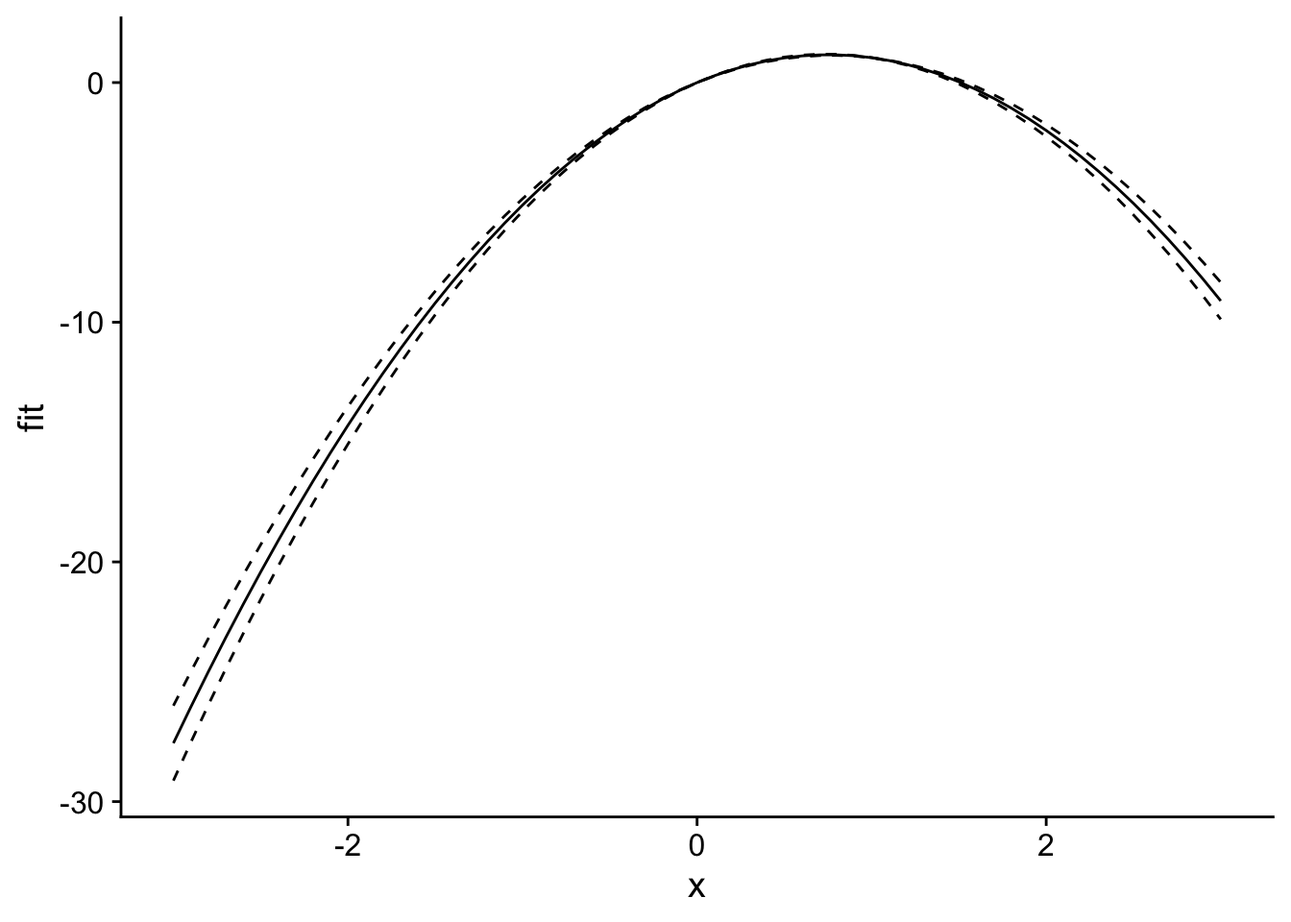
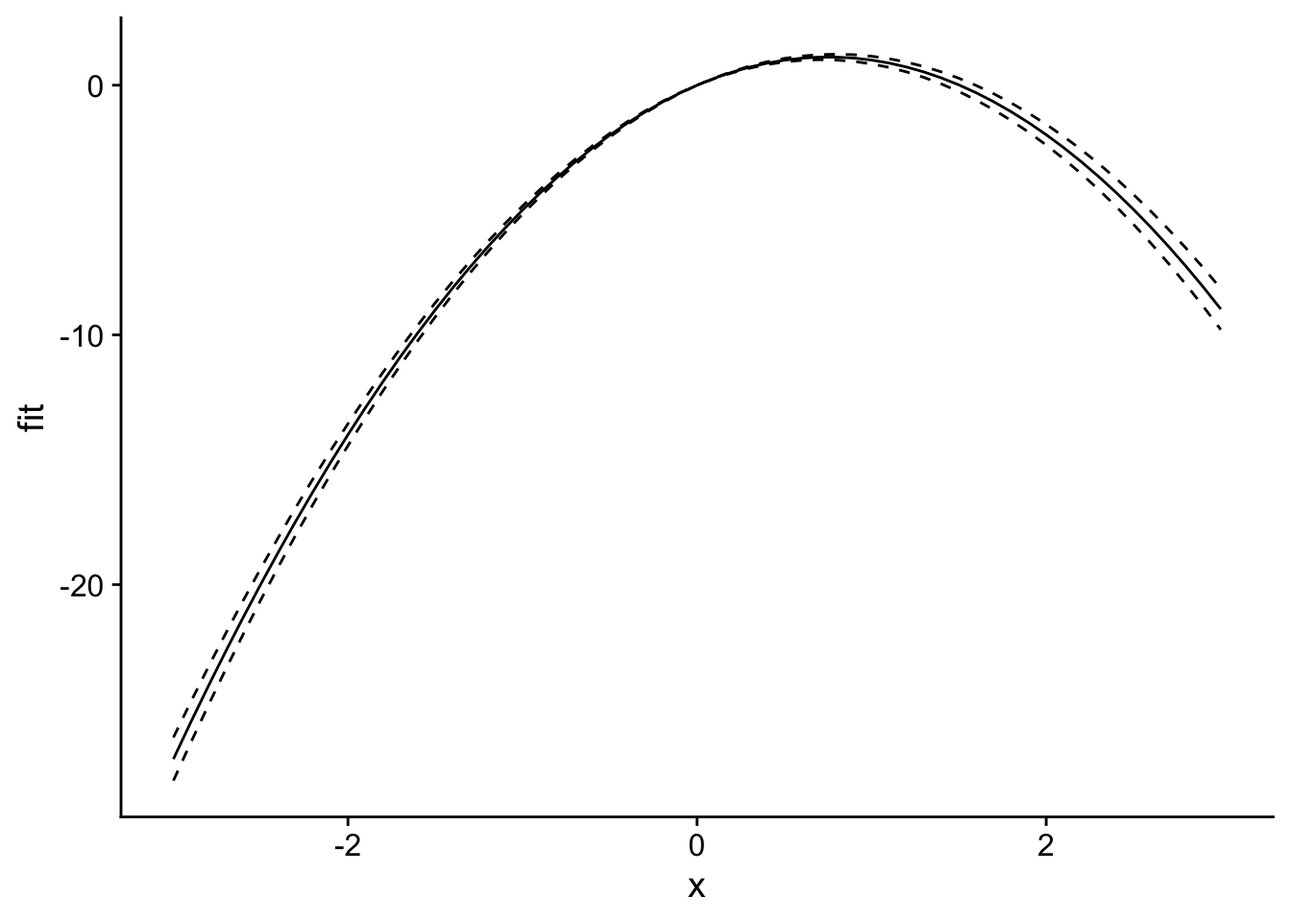
Get predict partial working again

diff --git a/_site/posts/2021-01-22-predict-partial/index.html b/_site/posts/2021-01-22-predict-partial/index.html
@@ -253,6 +253,19 @@ window.Quarto = {
 
 
 
+<div class="callout callout-style-default callout-note callout-titled">
+<div class="callout-header d-flex align-content-center">
+<div class="callout-icon-container">
+<i class="callout-icon"></i>
+</div>
+<div class="callout-title-container flex-fill">
+<span class="screen-reader-only">Note</span>2025 Update
+</div>
+</div>
+<div class="callout-body-container callout-body">
+<p>The approach detailed here has been made (mostly) obsolete by the <code>comparisons()</code> function in the <a href="https://github.com/vincentarelbundock/marginaleffects">marginaleffects</a> package. I wrote up a similar post using that package <a href="../../posts/2025-09-25-predict-update/">here</a>. That being said, the <code>predict_partial</code> function below is still useful to me when I’m trying to do something very particular, so I leave it up for posterity.</p>
+</div>
+</div>
 <p>In climate economics and in other settings, we often would like to estimate a <strong>response function</strong>, or the outcome as a function of some covariate, i.e., <span class="math inline">\(y = f(T)\)</span>. Most of the time, <span class="math inline">\(T\)</span> stands for temperature. Figure 3 in <a href="https://science.sciencemag.org/content/353/6304/aad9837">Carleton and Hsiang (2016)</a> documents a bunch of different response functions from the literature.</p>
 <div class="quarto-figure quarto-figure-center">
 <figure class="figure">
@@ -280,71 +293,69 @@ window.Quarto = {
 <span id="cb1-9"><a href="#cb1-9" aria-hidden="true" tabindex="-1"></a>        <span class="fu">stop</span>(<span class="st">"predict_partial requires newdata and predicts for all group effects = 0."</span>)</span>
 <span id="cb1-10"><a href="#cb1-10" aria-hidden="true" tabindex="-1"></a>    }</span>
 <span id="cb1-11"><a href="#cb1-11" aria-hidden="true" tabindex="-1"></a>    </span>
-<span id="cb1-12"><a href="#cb1-12" aria-hidden="true" tabindex="-1"></a>    object <span class="ot">&lt;-</span> fit_feols; newdata <span class="ot">&lt;-</span> newdata; se.fit <span class="ot">=</span> T; interval <span class="ot">=</span> <span class="st">"confidence"</span>; level <span class="ot">=</span> <span class="fl">0.95</span></span>
+<span id="cb1-12"><a href="#cb1-12" aria-hidden="true" tabindex="-1"></a>    <span class="co"># object &lt;- fit_lm; newdata &lt;- newdata; se.fit = T; interval = "confidence"; level = 0.95</span></span>
 <span id="cb1-13"><a href="#cb1-13" aria-hidden="true" tabindex="-1"></a>    </span>
 <span id="cb1-14"><a href="#cb1-14" aria-hidden="true" tabindex="-1"></a>    <span class="co"># Extract terms object, removing response variable </span></span>
 <span id="cb1-15"><a href="#cb1-15" aria-hidden="true" tabindex="-1"></a>    tt <span class="ot">&lt;-</span> <span class="fu">terms</span>(object)</span>
 <span id="cb1-16"><a href="#cb1-16" aria-hidden="true" tabindex="-1"></a>    Terms <span class="ot">&lt;-</span> <span class="fu">delete.response</span>(tt)</span>
 <span id="cb1-17"><a href="#cb1-17" aria-hidden="true" tabindex="-1"></a>    </span>
-<span id="cb1-18"><a href="#cb1-18" aria-hidden="true" tabindex="-1"></a>    <span class="co"># Remove intercept</span></span>
-<span id="cb1-19"><a href="#cb1-19" aria-hidden="true" tabindex="-1"></a>    <span class="fu">attr</span>(Terms, <span class="st">"intercept"</span>) <span class="ot">&lt;-</span> <span class="dv">0</span></span>
-<span id="cb1-20"><a href="#cb1-20" aria-hidden="true" tabindex="-1"></a>    </span>
-<span id="cb1-21"><a href="#cb1-21" aria-hidden="true" tabindex="-1"></a>    X <span class="ot">&lt;-</span> <span class="fu">model.matrix</span>(Terms, <span class="at">data =</span> newdata)</span>
-<span id="cb1-22"><a href="#cb1-22" aria-hidden="true" tabindex="-1"></a>    </span>
-<span id="cb1-23"><a href="#cb1-23" aria-hidden="true" tabindex="-1"></a>    <span class="cf">if</span> (<span class="fu">class</span>(object) <span class="sc">==</span> <span class="st">"fixest"</span>) {</span>
-<span id="cb1-24"><a href="#cb1-24" aria-hidden="true" tabindex="-1"></a>        B <span class="ot">&lt;-</span> <span class="fu">as.numeric</span>(<span class="fu">coef</span>(object))</span>
-<span id="cb1-25"><a href="#cb1-25" aria-hidden="true" tabindex="-1"></a>        df <span class="ot">&lt;-</span> <span class="fu">attributes</span>(<span class="fu">vcov</span>(fit_feols, <span class="at">attr =</span> T))<span class="sc">$</span>dof.K</span>
-<span id="cb1-26"><a href="#cb1-26" aria-hidden="true" tabindex="-1"></a>    } <span class="cf">else</span> <span class="cf">if</span> (<span class="fu">class</span>(object) <span class="sc">%in%</span> <span class="fu">c</span>(<span class="st">"lm"</span>, <span class="st">"felm"</span>)) { </span>
-<span id="cb1-27"><a href="#cb1-27" aria-hidden="true" tabindex="-1"></a>        B <span class="ot">&lt;-</span> <span class="fu">as.numeric</span>(object<span class="sc">$</span>coef)</span>
-<span id="cb1-28"><a href="#cb1-28" aria-hidden="true" tabindex="-1"></a>        df <span class="ot">&lt;-</span> object<span class="sc">$</span>df.residual</span>
-<span id="cb1-29"><a href="#cb1-29" aria-hidden="true" tabindex="-1"></a>    } <span class="cf">else</span> {</span>
-<span id="cb1-30"><a href="#cb1-30" aria-hidden="true" tabindex="-1"></a>        <span class="fu">stop</span>(<span class="st">"class(object) should be lm, fixest, or felm."</span>)</span>
-<span id="cb1-31"><a href="#cb1-31" aria-hidden="true" tabindex="-1"></a>    }</span>
+<span id="cb1-18"><a href="#cb1-18" aria-hidden="true" tabindex="-1"></a>    <span class="cf">if</span> (<span class="fu">class</span>(object) <span class="sc">==</span> <span class="st">"fixest"</span>) {</span>
+<span id="cb1-19"><a href="#cb1-19" aria-hidden="true" tabindex="-1"></a>        <span class="fu">attr</span>(Terms, <span class="st">"intercept"</span>) <span class="ot">&lt;-</span> <span class="dv">0</span> <span class="co"># Remove intercept for fixest objects</span></span>
+<span id="cb1-20"><a href="#cb1-20" aria-hidden="true" tabindex="-1"></a>        B <span class="ot">&lt;-</span> <span class="fu">as.numeric</span>(<span class="fu">coef</span>(object))</span>
+<span id="cb1-21"><a href="#cb1-21" aria-hidden="true" tabindex="-1"></a>        df <span class="ot">&lt;-</span> <span class="fu">attributes</span>(<span class="fu">vcov</span>(fit_feols, <span class="at">attr =</span> T))<span class="sc">$</span>df.K</span>
+<span id="cb1-22"><a href="#cb1-22" aria-hidden="true" tabindex="-1"></a>    } <span class="cf">else</span> <span class="cf">if</span> (<span class="fu">class</span>(object) <span class="sc">%in%</span> <span class="fu">c</span>(<span class="st">"lm"</span>, <span class="st">"felm"</span>)) { </span>
+<span id="cb1-23"><a href="#cb1-23" aria-hidden="true" tabindex="-1"></a>        B <span class="ot">&lt;-</span> object<span class="sc">$</span>coef</span>
+<span id="cb1-24"><a href="#cb1-24" aria-hidden="true" tabindex="-1"></a>        df <span class="ot">&lt;-</span> object<span class="sc">$</span>df.residual</span>
+<span id="cb1-25"><a href="#cb1-25" aria-hidden="true" tabindex="-1"></a>    } <span class="cf">else</span> {</span>
+<span id="cb1-26"><a href="#cb1-26" aria-hidden="true" tabindex="-1"></a>        <span class="fu">stop</span>(<span class="st">"class(object) should be lm, fixest, or felm."</span>)</span>
+<span id="cb1-27"><a href="#cb1-27" aria-hidden="true" tabindex="-1"></a>    }</span>
+<span id="cb1-28"><a href="#cb1-28" aria-hidden="true" tabindex="-1"></a>    </span>
+<span id="cb1-29"><a href="#cb1-29" aria-hidden="true" tabindex="-1"></a>    X <span class="ot">&lt;-</span> <span class="fu">model.matrix</span>(Terms, <span class="at">data =</span> newdata)</span>
+<span id="cb1-30"><a href="#cb1-30" aria-hidden="true" tabindex="-1"></a>    </span>
+<span id="cb1-31"><a href="#cb1-31" aria-hidden="true" tabindex="-1"></a>    fit <span class="ot">&lt;-</span> <span class="fu">data.frame</span>(<span class="at">fit =</span> <span class="fu">as.vector</span>(X <span class="sc">%*%</span> B))</span>
 <span id="cb1-32"><a href="#cb1-32" aria-hidden="true" tabindex="-1"></a>    </span>
-<span id="cb1-33"><a href="#cb1-33" aria-hidden="true" tabindex="-1"></a>    fit <span class="ot">&lt;-</span> <span class="fu">data.frame</span>(<span class="at">fit =</span> <span class="fu">as.vector</span>(X <span class="sc">%*%</span> B))</span>
-<span id="cb1-34"><a href="#cb1-34" aria-hidden="true" tabindex="-1"></a>    </span>
-<span id="cb1-35"><a href="#cb1-35" aria-hidden="true" tabindex="-1"></a>    <span class="cf">if</span>(se.fit <span class="sc">|</span> interval <span class="sc">!=</span> <span class="st">"none"</span>) {</span>
-<span id="cb1-36"><a href="#cb1-36" aria-hidden="true" tabindex="-1"></a>        sig <span class="ot">&lt;-</span> <span class="fu">vcov</span>(object)</span>
-<span id="cb1-37"><a href="#cb1-37" aria-hidden="true" tabindex="-1"></a>        se <span class="ot">&lt;-</span> <span class="fu">apply</span>(X, <span class="at">MARGIN =</span> <span class="dv">1</span>, <span class="at">FUN =</span> get_se, <span class="at">sig =</span> sig)</span>
-<span id="cb1-38"><a href="#cb1-38" aria-hidden="true" tabindex="-1"></a>    }</span>
-<span id="cb1-39"><a href="#cb1-39" aria-hidden="true" tabindex="-1"></a>    </span>
-<span id="cb1-40"><a href="#cb1-40" aria-hidden="true" tabindex="-1"></a>    <span class="cf">if</span>(interval <span class="sc">==</span> <span class="st">"confidence"</span>){</span>
-<span id="cb1-41"><a href="#cb1-41" aria-hidden="true" tabindex="-1"></a>        t_val <span class="ot">&lt;-</span> <span class="fu">qt</span>((<span class="dv">1</span> <span class="sc">-</span> level) <span class="sc">/</span> <span class="dv">2</span> <span class="sc">+</span> level, <span class="at">df =</span> df)</span>
-<span id="cb1-42"><a href="#cb1-42" aria-hidden="true" tabindex="-1"></a>        fit<span class="sc">$</span>lwr <span class="ot">&lt;-</span> fit<span class="sc">$</span>fit <span class="sc">-</span> t_val <span class="sc">*</span> se</span>
-<span id="cb1-43"><a href="#cb1-43" aria-hidden="true" tabindex="-1"></a>        fit<span class="sc">$</span>upr <span class="ot">&lt;-</span> fit<span class="sc">$</span>fit <span class="sc">+</span> t_val <span class="sc">*</span> se</span>
-<span id="cb1-44"><a href="#cb1-44" aria-hidden="true" tabindex="-1"></a>    } <span class="cf">else</span> <span class="cf">if</span> (interval <span class="sc">==</span> <span class="st">"prediction"</span>){</span>
-<span id="cb1-45"><a href="#cb1-45" aria-hidden="true" tabindex="-1"></a>        <span class="fu">stop</span>(<span class="st">"interval = </span><span class="sc">\"</span><span class="st">prediction</span><span class="sc">\"</span><span class="st"> not yet implemented"</span>)</span>
-<span id="cb1-46"><a href="#cb1-46" aria-hidden="true" tabindex="-1"></a>    }</span>
-<span id="cb1-47"><a href="#cb1-47" aria-hidden="true" tabindex="-1"></a>    <span class="cf">if</span>(se.fit){</span>
-<span id="cb1-48"><a href="#cb1-48" aria-hidden="true" tabindex="-1"></a>        <span class="fu">return</span>(<span class="fu">list</span>(<span class="at">fit=</span>fit, <span class="at">se.fit =</span> se))</span>
-<span id="cb1-49"><a href="#cb1-49" aria-hidden="true" tabindex="-1"></a>    } <span class="cf">else</span> {</span>
-<span id="cb1-50"><a href="#cb1-50" aria-hidden="true" tabindex="-1"></a>        <span class="fu">return</span>(fit)</span>
-<span id="cb1-51"><a href="#cb1-51" aria-hidden="true" tabindex="-1"></a>    }</span>
-<span id="cb1-52"><a href="#cb1-52" aria-hidden="true" tabindex="-1"></a>}</span>
-<span id="cb1-53"><a href="#cb1-53" aria-hidden="true" tabindex="-1"></a></span>
-<span id="cb1-54"><a href="#cb1-54" aria-hidden="true" tabindex="-1"></a>get_se <span class="ot">&lt;-</span> <span class="cf">function</span>(r, sig) {</span>
-<span id="cb1-55"><a href="#cb1-55" aria-hidden="true" tabindex="-1"></a>    <span class="co"># Compute linear combination, helper function for predict_partial</span></span>
-<span id="cb1-56"><a href="#cb1-56" aria-hidden="true" tabindex="-1"></a>    <span class="co"># Given numeric vector r (the constants) and vcov sig (the ), compute SE </span></span>
-<span id="cb1-57"><a href="#cb1-57" aria-hidden="true" tabindex="-1"></a>    r <span class="ot">&lt;-</span> <span class="fu">matrix</span>(r, <span class="at">nrow =</span> <span class="dv">1</span>)</span>
-<span id="cb1-58"><a href="#cb1-58" aria-hidden="true" tabindex="-1"></a>    <span class="fu">sqrt</span>(r <span class="sc">%*%</span> sig <span class="sc">%*%</span> <span class="fu">t</span>(r))</span>
-<span id="cb1-59"><a href="#cb1-59" aria-hidden="true" tabindex="-1"></a>}</span>
-<span id="cb1-60"><a href="#cb1-60" aria-hidden="true" tabindex="-1"></a></span>
-<span id="cb1-61"><a href="#cb1-61" aria-hidden="true" tabindex="-1"></a>N <span class="ot">&lt;-</span> <span class="dv">100</span></span>
-<span id="cb1-62"><a href="#cb1-62" aria-hidden="true" tabindex="-1"></a>data <span class="ot">&lt;-</span> <span class="fu">data.frame</span>(<span class="at">x =</span> <span class="fu">rnorm</span>(N), <span class="at">group =</span> <span class="fu">rep</span>(<span class="fu">c</span>(<span class="st">"A"</span>, <span class="st">"B"</span>), <span class="at">times =</span> N<span class="sc">/</span><span class="dv">2</span>))</span>
-<span id="cb1-63"><a href="#cb1-63" aria-hidden="true" tabindex="-1"></a>data<span class="sc">$</span>y <span class="ot">&lt;-</span> <span class="dv">1</span> <span class="sc">+</span> <span class="dv">3</span> <span class="sc">*</span> data<span class="sc">$</span>x <span class="sc">-</span> <span class="dv">2</span> <span class="sc">*</span> data<span class="sc">$</span>x<span class="sc">^</span><span class="dv">2</span> <span class="sc">+</span> <span class="fu">rnorm</span>(N, <span class="dv">0</span>, <span class="fl">0.5</span>) <span class="sc">+</span> <span class="fu">as.numeric</span>(data<span class="sc">$</span>group <span class="sc">==</span> <span class="st">"A"</span>) <span class="sc">*</span> <span class="dv">3</span></span>
+<span id="cb1-33"><a href="#cb1-33" aria-hidden="true" tabindex="-1"></a>    <span class="cf">if</span>(se.fit <span class="sc">|</span> interval <span class="sc">!=</span> <span class="st">"none"</span>) {</span>
+<span id="cb1-34"><a href="#cb1-34" aria-hidden="true" tabindex="-1"></a>        sig <span class="ot">&lt;-</span> <span class="fu">vcov</span>(object)</span>
+<span id="cb1-35"><a href="#cb1-35" aria-hidden="true" tabindex="-1"></a>        se <span class="ot">&lt;-</span> <span class="fu">apply</span>(X, <span class="at">MARGIN =</span> <span class="dv">1</span>, <span class="at">FUN =</span> get_se, <span class="at">sig =</span> sig)</span>
+<span id="cb1-36"><a href="#cb1-36" aria-hidden="true" tabindex="-1"></a>    }</span>
+<span id="cb1-37"><a href="#cb1-37" aria-hidden="true" tabindex="-1"></a>    </span>
+<span id="cb1-38"><a href="#cb1-38" aria-hidden="true" tabindex="-1"></a>    <span class="cf">if</span>(interval <span class="sc">==</span> <span class="st">"confidence"</span>){</span>
+<span id="cb1-39"><a href="#cb1-39" aria-hidden="true" tabindex="-1"></a>        t_val <span class="ot">&lt;-</span> <span class="fu">qt</span>((<span class="dv">1</span> <span class="sc">-</span> level) <span class="sc">/</span> <span class="dv">2</span> <span class="sc">+</span> level, <span class="at">df =</span> df)</span>
+<span id="cb1-40"><a href="#cb1-40" aria-hidden="true" tabindex="-1"></a>        fit<span class="sc">$</span>lwr <span class="ot">&lt;-</span> fit<span class="sc">$</span>fit <span class="sc">-</span> t_val <span class="sc">*</span> se</span>
+<span id="cb1-41"><a href="#cb1-41" aria-hidden="true" tabindex="-1"></a>        fit<span class="sc">$</span>upr <span class="ot">&lt;-</span> fit<span class="sc">$</span>fit <span class="sc">+</span> t_val <span class="sc">*</span> se</span>
+<span id="cb1-42"><a href="#cb1-42" aria-hidden="true" tabindex="-1"></a>    } <span class="cf">else</span> <span class="cf">if</span> (interval <span class="sc">==</span> <span class="st">"prediction"</span>){</span>
+<span id="cb1-43"><a href="#cb1-43" aria-hidden="true" tabindex="-1"></a>        <span class="fu">stop</span>(<span class="st">"interval = </span><span class="sc">\"</span><span class="st">prediction</span><span class="sc">\"</span><span class="st"> not yet implemented"</span>)</span>
+<span id="cb1-44"><a href="#cb1-44" aria-hidden="true" tabindex="-1"></a>    }</span>
+<span id="cb1-45"><a href="#cb1-45" aria-hidden="true" tabindex="-1"></a>    <span class="cf">if</span>(se.fit){</span>
+<span id="cb1-46"><a href="#cb1-46" aria-hidden="true" tabindex="-1"></a>        <span class="fu">return</span>(<span class="fu">list</span>(<span class="at">fit=</span>fit, <span class="at">se.fit =</span> se))</span>
+<span id="cb1-47"><a href="#cb1-47" aria-hidden="true" tabindex="-1"></a>    } <span class="cf">else</span> {</span>
+<span id="cb1-48"><a href="#cb1-48" aria-hidden="true" tabindex="-1"></a>        <span class="fu">return</span>(fit)</span>
+<span id="cb1-49"><a href="#cb1-49" aria-hidden="true" tabindex="-1"></a>    }</span>
+<span id="cb1-50"><a href="#cb1-50" aria-hidden="true" tabindex="-1"></a>}</span>
+<span id="cb1-51"><a href="#cb1-51" aria-hidden="true" tabindex="-1"></a></span>
+<span id="cb1-52"><a href="#cb1-52" aria-hidden="true" tabindex="-1"></a>get_se <span class="ot">&lt;-</span> <span class="cf">function</span>(r, sig) {</span>
+<span id="cb1-53"><a href="#cb1-53" aria-hidden="true" tabindex="-1"></a>    <span class="co"># Compute linear combination, helper function for predict_partial</span></span>
+<span id="cb1-54"><a href="#cb1-54" aria-hidden="true" tabindex="-1"></a>    <span class="co"># Given numeric vector r (the constants) and vcov sig, compute SE </span></span>
+<span id="cb1-55"><a href="#cb1-55" aria-hidden="true" tabindex="-1"></a>    r <span class="ot">&lt;-</span> <span class="fu">matrix</span>(r, <span class="at">nrow =</span> <span class="dv">1</span>)</span>
+<span id="cb1-56"><a href="#cb1-56" aria-hidden="true" tabindex="-1"></a>    <span class="fu">sqrt</span>(r <span class="sc">%*%</span> sig <span class="sc">%*%</span> <span class="fu">t</span>(r))</span>
+<span id="cb1-57"><a href="#cb1-57" aria-hidden="true" tabindex="-1"></a>}</span>
+<span id="cb1-58"><a href="#cb1-58" aria-hidden="true" tabindex="-1"></a></span>
+<span id="cb1-59"><a href="#cb1-59" aria-hidden="true" tabindex="-1"></a>N <span class="ot">&lt;-</span> <span class="dv">100</span></span>
+<span id="cb1-60"><a href="#cb1-60" aria-hidden="true" tabindex="-1"></a>data <span class="ot">&lt;-</span> <span class="fu">data.frame</span>(<span class="at">x =</span> <span class="fu">rnorm</span>(N), <span class="at">group =</span> <span class="fu">rep</span>(<span class="fu">c</span>(<span class="st">"A"</span>, <span class="st">"B"</span>), <span class="at">times =</span> N<span class="sc">/</span><span class="dv">2</span>))</span>
+<span id="cb1-61"><a href="#cb1-61" aria-hidden="true" tabindex="-1"></a>data<span class="sc">$</span>y <span class="ot">&lt;-</span> <span class="dv">1</span> <span class="sc">+</span> <span class="dv">3</span> <span class="sc">*</span> data<span class="sc">$</span>x <span class="sc">-</span> <span class="dv">2</span> <span class="sc">*</span> data<span class="sc">$</span>x<span class="sc">^</span><span class="dv">2</span> <span class="sc">+</span> <span class="fu">rnorm</span>(N, <span class="dv">0</span>, <span class="fl">0.5</span>) <span class="sc">+</span> <span class="fu">as.numeric</span>(data<span class="sc">$</span>group <span class="sc">==</span> <span class="st">"A"</span>) <span class="sc">*</span> <span class="dv">3</span></span>
+<span id="cb1-62"><a href="#cb1-62" aria-hidden="true" tabindex="-1"></a></span>
+<span id="cb1-63"><a href="#cb1-63" aria-hidden="true" tabindex="-1"></a>fit_feols <span class="ot">&lt;-</span> <span class="fu">feols</span>(y <span class="sc">~</span> x <span class="sc">+</span> <span class="fu">I</span>(x<span class="sc">^</span><span class="dv">2</span>) <span class="sc">|</span> group, <span class="at">data =</span> data)</span>
 <span id="cb1-64"><a href="#cb1-64" aria-hidden="true" tabindex="-1"></a></span>
-<span id="cb1-65"><a href="#cb1-65" aria-hidden="true" tabindex="-1"></a>fit_feols <span class="ot">&lt;-</span> <span class="fu">feols</span>(y <span class="sc">~</span> x <span class="sc">+</span> <span class="fu">I</span>(x<span class="sc">^</span><span class="dv">2</span>) <span class="sc">|</span> group, <span class="at">data =</span> data)</span>
-<span id="cb1-66"><a href="#cb1-66" aria-hidden="true" tabindex="-1"></a></span>
-<span id="cb1-67"><a href="#cb1-67" aria-hidden="true" tabindex="-1"></a>newdata <span class="ot">&lt;-</span> <span class="fu">data.frame</span>(<span class="at">x =</span> <span class="fu">seq</span>(<span class="sc">-</span><span class="dv">3</span>, <span class="dv">3</span>, <span class="fl">0.1</span>))</span>
-<span id="cb1-68"><a href="#cb1-68" aria-hidden="true" tabindex="-1"></a>preds <span class="ot">&lt;-</span> <span class="fu">predict_partial</span>(fit_feols, newdata, <span class="at">se.fit =</span> T, <span class="at">interval =</span> <span class="st">"confidence"</span>)</span>
+<span id="cb1-65"><a href="#cb1-65" aria-hidden="true" tabindex="-1"></a>newdata <span class="ot">&lt;-</span> <span class="fu">data.frame</span>(<span class="at">x =</span> <span class="fu">seq</span>(<span class="sc">-</span><span class="dv">3</span>, <span class="dv">3</span>, <span class="fl">0.1</span>))</span>
+<span id="cb1-66"><a href="#cb1-66" aria-hidden="true" tabindex="-1"></a>preds <span class="ot">&lt;-</span> <span class="fu">predict_partial</span>(fit_feols, newdata, <span class="at">se.fit =</span> T, <span class="at">interval =</span> <span class="st">"confidence"</span>)</span>
+<span id="cb1-67"><a href="#cb1-67" aria-hidden="true" tabindex="-1"></a></span>
+<span id="cb1-68"><a href="#cb1-68" aria-hidden="true" tabindex="-1"></a>plot_df <span class="ot">&lt;-</span> <span class="fu">cbind</span>(newdata, preds<span class="sc">$</span>fit)</span>
 <span id="cb1-69"><a href="#cb1-69" aria-hidden="true" tabindex="-1"></a></span>
-<span id="cb1-70"><a href="#cb1-70" aria-hidden="true" tabindex="-1"></a>plot_df <span class="ot">&lt;-</span> <span class="fu">cbind</span>(newdata, preds<span class="sc">$</span>fit)</span>
-<span id="cb1-71"><a href="#cb1-71" aria-hidden="true" tabindex="-1"></a></span>
-<span id="cb1-72"><a href="#cb1-72" aria-hidden="true" tabindex="-1"></a><span class="fu">ggplot</span>(plot_df, <span class="fu">aes</span>(<span class="at">x =</span> x, <span class="at">y =</span> fit)) <span class="sc">+</span> </span>
-<span id="cb1-73"><a href="#cb1-73" aria-hidden="true" tabindex="-1"></a>    <span class="fu">geom_line</span>() <span class="sc">+</span></span>
-<span id="cb1-74"><a href="#cb1-74" aria-hidden="true" tabindex="-1"></a>    <span class="fu">geom_line</span>(<span class="fu">aes</span>(<span class="at">y =</span> lwr), <span class="at">linetype =</span> <span class="st">"dashed"</span>) <span class="sc">+</span> </span>
-<span id="cb1-75"><a href="#cb1-75" aria-hidden="true" tabindex="-1"></a>    <span class="fu">geom_line</span>(<span class="fu">aes</span>(<span class="at">y =</span> upr), <span class="at">linetype =</span> <span class="st">"dashed"</span>) <span class="sc">+</span> </span>
-<span id="cb1-76"><a href="#cb1-76" aria-hidden="true" tabindex="-1"></a>    <span class="fu">theme_cowplot</span>()</span></code></pre></div><button title="Copy to Clipboard" class="code-copy-button"><i class="bi"></i></button></div>
+<span id="cb1-70"><a href="#cb1-70" aria-hidden="true" tabindex="-1"></a><span class="fu">ggplot</span>(plot_df, <span class="fu">aes</span>(<span class="at">x =</span> x, <span class="at">y =</span> fit)) <span class="sc">+</span> </span>
+<span id="cb1-71"><a href="#cb1-71" aria-hidden="true" tabindex="-1"></a>    <span class="fu">geom_line</span>() <span class="sc">+</span></span>
+<span id="cb1-72"><a href="#cb1-72" aria-hidden="true" tabindex="-1"></a>    <span class="fu">geom_line</span>(<span class="fu">aes</span>(<span class="at">y =</span> lwr), <span class="at">linetype =</span> <span class="st">"dashed"</span>) <span class="sc">+</span> </span>
+<span id="cb1-73"><a href="#cb1-73" aria-hidden="true" tabindex="-1"></a>    <span class="fu">geom_line</span>(<span class="fu">aes</span>(<span class="at">y =</span> upr), <span class="at">linetype =</span> <span class="st">"dashed"</span>) <span class="sc">+</span> </span>
+<span id="cb1-74"><a href="#cb1-74" aria-hidden="true" tabindex="-1"></a>    <span class="fu">theme_cowplot</span>()</span></code></pre></div><button title="Copy to Clipboard" class="code-copy-button"><i class="bi"></i></button></div>
 <div class="cell-output-display">
 <div>
 <figure class="figure">
@@ -353,25 +364,10 @@ window.Quarto = {
 </div>
 </div>
 </div>
-<p>Note that this function also works with <code>lm</code> and <code>felm</code>, though there’s little reason to use it for <code>lm</code> given that <code>predict.lm</code> works (and provides more functionality).</p>
+<p>Note that this function also works with <code>lm</code>, though I’m not sure why you would use it given that <code>predict.lm</code> provides all of the functionality above and more.</p>
 <div class="cell">
 <div class="code-copy-outer-scaffold"><div class="sourceCode cell-code" id="cb2"><pre class="sourceCode r code-with-copy"><code class="sourceCode r"><span id="cb2-1"><a href="#cb2-1" aria-hidden="true" tabindex="-1"></a>fit_lm <span class="ot">&lt;-</span> <span class="fu">lm</span>(y <span class="sc">~</span> x <span class="sc">+</span> <span class="fu">I</span>(x<span class="sc">^</span><span class="dv">2</span>), <span class="at">data =</span> data)</span>
-<span id="cb2-2"><a href="#cb2-2" aria-hidden="true" tabindex="-1"></a>preds_lm <span class="ot">&lt;-</span> <span class="fu">predict_partial</span>(fit_lm, newdata, <span class="at">se.fit =</span> T, <span class="at">interval =</span> <span class="st">"confidence"</span>)</span>
-<span id="cb2-3"><a href="#cb2-3" aria-hidden="true" tabindex="-1"></a><span class="fu">library</span>(lfe)</span></code></pre></div><button title="Copy to Clipboard" class="code-copy-button"><i class="bi"></i></button></div>
-<div class="cell-output cell-output-stderr">
-<pre><code>Loading required package: Matrix</code></pre>
-</div>
-<div class="cell-output cell-output-stderr">
-<pre><code>
-Attaching package: 'lfe'</code></pre>
-</div>
-<div class="cell-output cell-output-stderr">
-<pre><code>The following object is masked from 'package:fixest':
-
-    fepois</code></pre>
-</div>
-<div class="code-copy-outer-scaffold"><div class="sourceCode cell-code" id="cb6"><pre class="sourceCode r code-with-copy"><code class="sourceCode r"><span id="cb6-1"><a href="#cb6-1" aria-hidden="true" tabindex="-1"></a>fit_felm <span class="ot">&lt;-</span> <span class="fu">felm</span>(y <span class="sc">~</span> x <span class="sc">+</span> <span class="fu">I</span>(x<span class="sc">^</span><span class="dv">2</span>), <span class="at">data =</span> data)</span>
-<span id="cb6-2"><a href="#cb6-2" aria-hidden="true" tabindex="-1"></a>preds_felm <span class="ot">&lt;-</span> <span class="fu">predict_partial</span>(fit_felm, newdata, <span class="at">se.fit =</span> T, <span class="at">interval =</span> <span class="st">"confidence"</span>)</span></code></pre></div><button title="Copy to Clipboard" class="code-copy-button"><i class="bi"></i></button></div>
+<span id="cb2-2"><a href="#cb2-2" aria-hidden="true" tabindex="-1"></a>preds_lm <span class="ot">&lt;-</span> <span class="fu">predict_partial</span>(fit_lm, newdata, <span class="at">se.fit =</span> T, <span class="at">interval =</span> <span class="st">"confidence"</span>)</span></code></pre></div><button title="Copy to Clipboard" class="code-copy-button"><i class="bi"></i></button></div>
 </div>
 <p>In any case, I’m happy to finally close this issue, given that it’s been on my mind for <a href="https://stackoverflow.com/questions/30491545/predict-method-for-felm-from-lfe-package">almost six years</a>.</p>
 

diff --git a/_site/posts.html b/_site/posts.html
@@ -552,7 +552,7 @@ Patrick Baylis
 </a>
 </div>
 </div>
-<div class="quarto-post image-right" data-index="10" data-categories="UiUyQ2Vjb25vbWV0cmljcyUyQ3ByZWRpY3Rpb24=" data-listing-date-sort="1611302400000" data-listing-file-modified-sort="1764017592993" data-listing-date-modified-sort="NaN" data-listing-reading-time-sort="7" data-listing-word-count-sort="1387">
+<div class="quarto-post image-right" data-index="10" data-categories="UiUyQ2Vjb25vbWV0cmljcyUyQ3ByZWRpY3Rpb24=" data-listing-date-sort="1611302400000" data-listing-file-modified-sort="1764018764132" data-listing-date-modified-sort="NaN" data-listing-reading-time-sort="7" data-listing-word-count-sort="1386">
 <div class="thumbnail"><a href="./posts/2021-01-22-predict-partial/index.html" class="no-external">
 
 <p class="card-img-top"><img src="posts/2021-01-22-predict-partial/carleton-hsiang-fig3.png"  class="thumbnail-image card-img"/></p>
@@ -1054,7 +1054,7 @@ Patrick Baylis
 </a>
 </div>
 </div>
-<div class="quarto-post image-right" data-index="25" data-categories="Z2VvY29kaW5nJTJDdG9vbHMlMkNwb3N0Z3Jlc3Fs" data-listing-date-sort="1535439600000" data-listing-file-modified-sort="1764012952111" data-listing-date-modified-sort="NaN" data-listing-reading-time-sort="3" data-listing-word-count-sort="536">
+<div class="quarto-post image-right" data-index="25" data-categories="Z2VvY29kaW5nJTJDdG9vbHMlMkNwb3N0Z3Jlc3Fs" data-listing-date-sort="1535439600000" data-listing-file-modified-sort="1764017970668" data-listing-date-modified-sort="NaN" data-listing-reading-time-sort="3" data-listing-word-count-sort="538">
 <div class="thumbnail"><a href="./posts/2018-08-28-nominatim-install-notes/index.html" class="no-external">
 
 <div class="listing-item-img-placeholder card-img-top" >&nbsp;</div>
